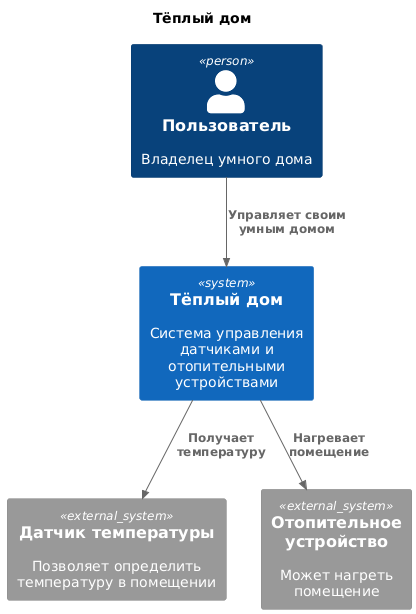
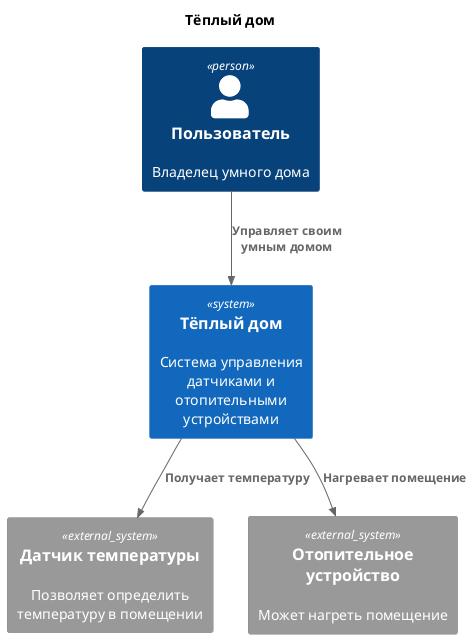
Added info about next system

Changed region(s): [[0.0, 0.3404, 1.0, 1.0], [0.2812, 0.0, 0.7812, 0.3094]]

diff --git a/README.md b/README.md
@@ -36,10 +36,41 @@
 
 ### 3. Определение доменов и границы контекстов
 
+#### Существующее решение
 * Домен -- удалённое управление отоплением в доме.
 * Контексты
-  - реестр устройств (регистрация и удаление)
-  - управление устройствами (чтение данных и отсылка команд)
+  - реестр устройств  (регистрация и удаление)
+  - управление устройствами отопления и датчиками температуры (чтение данных и отсылка команд)
+
+#### Следующее решение
+* Домен: управление подписками
+
+  - поддомен: управление пользователями
+    + контекст: регистрация пользователей
+    + контекст: управление профилем пользователя (данные о физическом лице)
+    + контекст: конфигурация системы пользователя на основе купленной подписки (какие устройства можно подключить)
+    
+  - поддомен: обработка платежей
+    + контекст: продажа подписок
+    
+* Домен: управление умным домом
+
+  - поддомен: управление умными устройствами
+    + контекст: регистрация умных устройств
+    + контекст: управление умными устройствами (посылка команд и считывание данных)
+
+  - поддомен: видеонаблюдение
+    + контекст: регистрация камер
+    + контекст: просмотр видео с камер
+    
+* Домен: поддержка
+
+  - поддомен: работа с заявками
+    + контекст: регистрация заявок
+    + контекст: обработка поступивших заявок
+    
+  - поддомен: просмотр данных пользователя
+    + контекст: просмотр профиля пользователя и его конфигурации
 
 ### **4. Проблемы монолитного решения**
 
@@ -54,7 +85,13 @@
 
 ### 5. Визуализация контекста системы — диаграмма С4
 
+#### Существующая система
+
 ![Контекстная диаграмма системы "Тёплый дом"](diagrams/context/current-context.png)
+
+#### Будущая система
+
+![Контекстная диаграмма системы "Умный дом"](diagrams/context/next-context.png)
 
 
 # Задание 2. Проектирование микросервисной архитектуры
